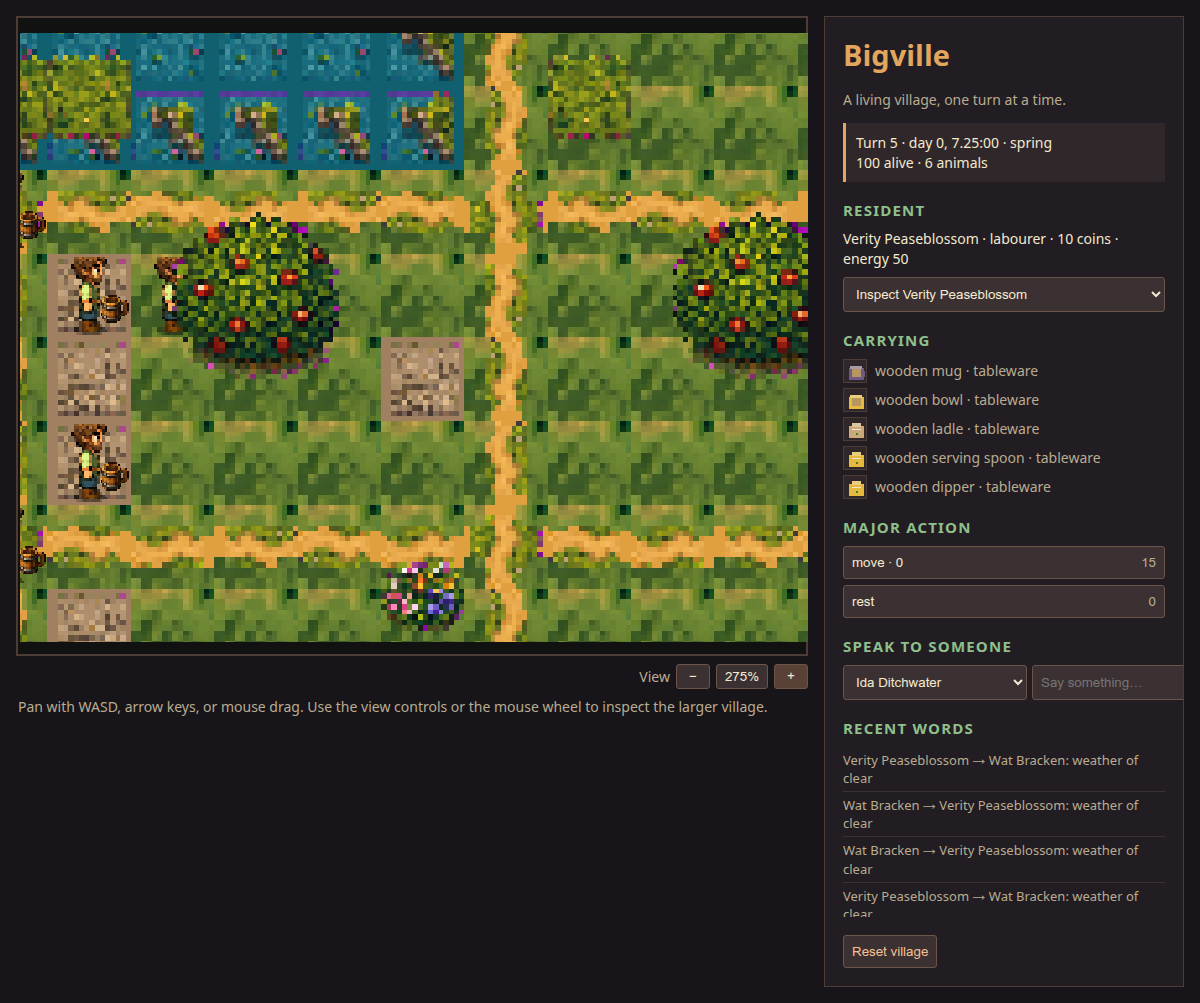
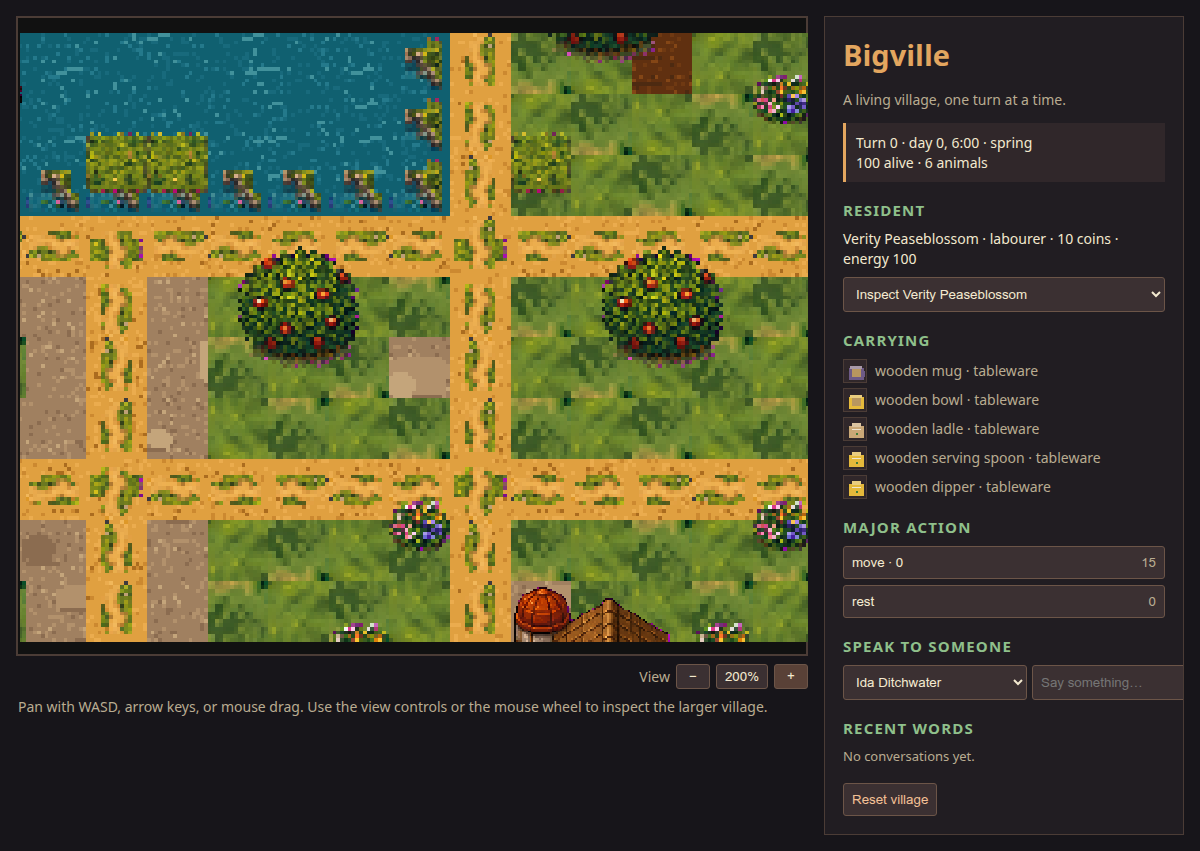
Render terrain as continuous material fields

diff --git a/bigville/game/game.js b/bigville/game/game.js
@@ -203,6 +203,14 @@ class BigvilleScene extends Phaser.Scene {
     // These are style-matched frames extracted from the original village art;
     // the map still chooses and assembles them from its own grid.
     this.load.spritesheet('tileset', 'assets/style_tiles.png', {frameWidth: TILE, frameHeight: TILE});
+    // Material fields are larger repeating textures masked to the canonical
+    // grid.  They remove the one-texture-square-per-cell look without making
+    // the art responsible for map topology or collision.
+    this.load.image('material_ground', 'assets/style_ground.png');
+    this.load.image('material_path', 'assets/style_path_ground.png');
+    this.load.image('material_water', 'assets/style_water_ground.png');
+    this.load.image('material_soil', 'assets/style_soil_ground.png');
+    this.load.image('material_stone', 'assets/style_stone_ground.png');
     this.load.spritesheet('props', 'assets/style_props.png', {frameWidth: TILE, frameHeight: TILE});
     this.load.spritesheet('large_props', 'assets/style_large_props.png', {frameWidth: 32, frameHeight: 32});
     this.load.spritesheet('buildings', 'assets/buildings.png', {frameWidth: 48, frameHeight: 48});
@@ -386,14 +394,63 @@ class BigvilleScene extends Phaser.Scene {
 
   drawCanonicalMap(map) {
     const grid = map.grid || [];
+    this.drawMaterialFields(map);
     for (let y = 0; y < grid.length; y++) {
       for (let x = 0; x < (grid[y] || []).length; x++) {
         const tile = grid[y][x];
+        // These materials are continuous fields.  Only topology-dependent
+        // edges and non-material overlays remain individual grid sprites.
+        if (tile === 0 || tile === 2 || tile === 3 || tile === 4 || tile === 5 || tile === 7) continue;
+        if (tile === 6 && this.neighbourMask(grid, x, y, 6) === 15) continue;
         const frame = this.terrainFrame(tile, x, y, grid);
         const sprite = this.add.sprite(this.cellX(x), this.cellY(y), 'tileset', frame)
           .setScale(DISPLAY_SCALE).setDepth(this.depthAt(x, y, 0));
         this.objects.push(sprite);
       }
+    }
+  }
+
+  neighbourMask(grid, x, y, value) {
+    const same = (nx, ny) => grid[ny]?.[nx] === value;
+    return (same(x, y - 1) ? 1 : 0) | (same(x + 1, y) ? 2 : 0) |
+      (same(x, y + 1) ? 4 : 0) | (same(x - 1, y) ? 8 : 0);
+  }
+
+  drawMaterialFields(map) {
+    const grid = map.grid || [];
+    const width = (map.width || grid[0]?.length || 0) * TILE * DISPLAY_SCALE;
+    const height = (map.height || grid.length || 0) * TILE * DISPLAY_SCALE;
+    const fields = [
+      ['ground', (tile) => tile === 0 || tile === 7],
+      ['path', (tile) => tile === 1],
+      ['water', (tile) => tile === 6],
+      ['soil', (tile) => tile === 5],
+      ['stone', (tile) => tile === 2 || tile === 3 || tile === 4],
+    ];
+    const materialScale = Number(this.styleManifest?.materials?.texture_scale || DISPLAY_SCALE);
+    for (const [name, predicate] of fields) {
+      const texture = `material_${name}`;
+      if (!this.textures.exists(texture)) continue;
+      const maskShape = this.make.graphics({x: 0, y: 0, add: true});
+      maskShape.fillStyle(0xffffff, 1);
+      let hasCells = false;
+      for (let y = 0; y < grid.length; y++) {
+        for (let x = 0; x < (grid[y] || []).length; x++) {
+          if (!predicate(grid[y][x])) continue;
+          hasCells = true;
+          maskShape.fillRect(x * TILE * DISPLAY_SCALE, y * TILE * DISPLAY_SCALE,
+            TILE * DISPLAY_SCALE, TILE * DISPLAY_SCALE);
+        }
+      }
+      if (!hasCells) {
+        maskShape.destroy();
+        continue;
+      }
+      const field = this.add.tileSprite(width / 2, height / 2, width, height, texture)
+        .setOrigin(0.5).setTileScale(materialScale).setDepth(-50);
+      field.setMask(maskShape.createGeometryMask());
+      maskShape.setVisible(false);
+      this.objects.push(field, maskShape);
     }
   }
 

diff --git a/tools/build_style_assets.py b/tools/build_style_assets.py
@@ -96,10 +96,107 @@ def opaque_tile(image: Image.Image) -> Image.Image:
     return out.convert("RGB")
 
 
+def material_texture(frames: list[Image.Image], choices: list[int], blocks: int = 8,
+                     seed: int = 17) -> Image.Image:
+    """Make a larger, varied material field from small pixel-art samples.
+
+    The simulation still addresses terrain one logical cell at a time, but a
+    material is rendered as a field rather than as one visibly repeated square
+    per cell.  Mirrored samples keep the pixel language intact while breaking
+    the obvious checkerboard rhythm at normal zoom.
+    """
+    size = TILE * blocks
+    out = Image.new("RGB", (size, size))
+    for row in range(blocks):
+        for col in range(blocks):
+            index = (col * 13 + row * 29 + seed) % len(choices)
+            frame = frames[choices[index]].convert("RGB")
+            transform = (col * 3 + row * 5 + seed) % 4
+            if transform == 1:
+                frame = ImageOps.mirror(frame)
+            elif transform == 2:
+                frame = ImageOps.flip(frame)
+            elif transform == 3:
+                frame = frame.transpose(Image.Transpose.ROTATE_180)
+            out.paste(frame, (col * TILE, row * TILE))
+    return out
+
+
+def material_field(kind: str, size: int = 128) -> Image.Image:
+    """Paint a larger pixel-art material without logical-cell borders.
+
+    Some source tiles intentionally contain a little scene dressing (lilypads,
+    paving seams, or crop rows).  Repeating those tiles as a field would just
+    move the square problem to a larger scale, so the broad materials get a
+    sparse, deterministic pixel treatment in the same palette instead.
+    """
+    palettes = {
+        "path": [(224, 160, 64), (235, 172, 78), (204, 137, 48), (171, 108, 31)],
+        "water": [(16, 96, 112), (24, 106, 124), (36, 121, 139), (65, 145, 155)],
+        "soil": [(96, 48, 16), (111, 57, 18), (132, 70, 22), (77, 42, 17)],
+        "stone": [(160, 128, 96), (178, 145, 108), (139, 108, 80), (196, 165, 123)],
+    }
+    colors = palettes[kind]
+    out = Image.new("RGB", (size, size), colors[0])
+    draw = ImageDraw.Draw(out)
+
+    def number(x: int, y: int, salt: int = 0) -> int:
+        value = (x * 374761393 + y * 668265263 + salt * 1442695041) & 0xffffffff
+        value = ((value ^ (value >> 13)) * 1274126177) & 0xffffffff
+        return (value ^ (value >> 16)) & 0x7fffffff
+
+    for y in range(size):
+        for x in range(size):
+            value = number(x, y, len(kind)) % 100
+            if value < 12:
+                out.putpixel((x, y), colors[1])
+            elif value < 18:
+                out.putpixel((x, y), colors[2])
+            elif value < 21:
+                out.putpixel((x, y), colors[3])
+
+    if kind == "water":
+        for y in range(4, size, 9):
+            for x in range((y * 3) % 13 - 8, size, 25):
+                if number(x, y, 5) % 3:
+                    draw.line((x, y, x + 5, y - 1), fill=colors[3], width=1)
+                    draw.point((x + 6, y), fill=colors[1])
+    elif kind == "soil":
+        for y in range(5, size, 7):
+            for x in range((y * 5) % 11 - 5, size, 23):
+                draw.line((x, y, x + 8, y), fill=colors[3], width=1)
+    elif kind == "path":
+        for i in range(36):
+            x = number(i, 7, 3) % size
+            y = number(i, 19, 7) % size
+            draw.point((x, y), fill=colors[3])
+            if number(i, 29, 11) % 2:
+                draw.point((min(size - 1, x + 1), y), fill=colors[2])
+    elif kind == "stone":
+        # Irregular paving stones are deliberately larger and offset from the
+        # simulation grid, so a paved square is still readable as a surface,
+        # not as a set of map cells.
+        for i in range(32):
+            x = number(i, 2, 13) % size
+            y = number(i, 31, 17) % size
+            w = 7 + number(i, 41, 19) % 11
+            h = 5 + number(i, 53, 23) % 8
+            shade = colors[1 + number(i, 67, 29) % 3]
+            points = [(x, y + 1), (x + 2, y), (x + w - 2, y),
+                      (x + w, y + 2), (x + w - 1, y + h),
+                      (x + 2, y + h - 1), (x, y + h - 2)]
+            draw.polygon(points, fill=shade)
+            draw.line((x + 1, y + h, x + w - 2, y + h), fill=colors[2], width=1)
+    return out
+
+
 def path_transition(grass: Image.Image, path: Image.Image, mask: int,
                     variant: int = 0) -> Image.Image:
     """Blend an organic path edge into grass using N/E/S/W connectivity."""
-    out = grass.copy()
+    # Paths are overlays now.  The larger grass/path material fields underneath
+    # provide the continuous ground, so each transition must not stamp a
+    # second square of grass over its neighbours.
+    out = Image.new("RGBA", (TILE, TILE), (0, 0, 0, 0))
     shape = Image.new("L", (TILE, TILE), 0)
     draw = ImageDraw.Draw(shape)
     draw.rectangle((4, 4, 11, 11), fill=255)
@@ -112,7 +209,7 @@ def path_transition(grass: Image.Image, path: Image.Image, mask: int,
         draw.polygon(((4, 8), (11, 8), (10 + offset, 15), (5 + offset, 15)), fill=255)
     if mask & 8:
         draw.polygon(((0, 5 + offset), (8, 4), (8, 11), (0, 10 + offset)), fill=255)
-    out.paste(path, (0, 0), shape)
+    out.paste(path.convert("RGBA"), (0, 0), shape)
     return out
 
 
@@ -136,7 +233,7 @@ def orient_path(path: Image.Image, mask: int, variant: int) -> Image.Image:
 def water_transition(water: Image.Image, shoreline: Image.Image, mask: int) -> Image.Image:
     """Keep open water open and add shoreline only at exposed edges."""
     if mask == 15:
-        return water.copy()
+        return Image.new("RGBA", (TILE, TILE), (0, 0, 0, 0))
     if mask == 0:
         return shoreline.copy()
     shape = Image.new("L", (TILE, TILE), 0)
@@ -151,8 +248,8 @@ def water_transition(water: Image.Image, shoreline: Image.Image, mask: int) -> I
         draw.rectangle((0, 10, 15, 15), fill=255)
     if not mask & 8:
         draw.rectangle((0, 0, 5, 15), fill=255)
-    out = water.copy()
-    out.paste(shoreline, (0, 0), shape)
+    out = Image.new("RGBA", (TILE, TILE), (0, 0, 0, 0))
+    out.paste(shoreline.convert("RGBA"), (0, 0), shape)
     return out
 
 
@@ -174,6 +271,15 @@ def build_tiles(manifest: dict, terrain: Image.Image, reference: Image.Image,
         (TILE, TILE), Image.Resampling.NEAREST).convert("RGB")
     base[1] = reference.crop((340, 20, 372, 52)).resize(
         (TILE, TILE), Image.Resampling.NEAREST).convert("RGB")
+    material_files = {
+        "ground": material_texture(base, [0, 1], seed=11),
+        "path_ground": material_field("path"),
+        "water_ground": material_field("water"),
+        "soil_ground": material_field("soil"),
+        "stone_ground": material_field("stone"),
+    }
+    for name, texture in material_files.items():
+        texture.save(ASSETS / f"style_{name}.png")
     semantic = {
         "grass": base[0], "grass_alt": base[1], "path": base[2],
         "dirt": base[2], "square": base[4], "floor": base[4],
@@ -355,6 +461,17 @@ def main() -> None:
         "held_item_source": "style_held_items_atlas_source.png",
         "tiles": {"file": "style_tiles.png", "frame": TILE,
                   "tiles": manifest["tileset"]["tiles"]},
+        "materials": {
+            "logical_tile": TILE,
+            "texture_scale": 2,
+            "fields": {
+                "ground": "style_ground.png",
+                "path": "style_path_ground.png",
+                "water": "style_water_ground.png",
+                "soil": "style_soil_ground.png",
+                "stone": "style_stone_ground.png",
+            },
+        },
         "path_variants": path_variants,
         "props": {"file": "style_props.png", "frame": TILE, "sprites": prop_sprites},
         "large_props": {"file": "style_large_props.png", "frame": 32,
@@ -370,7 +487,9 @@ def main() -> None:
                        "sprites": held_item_sprites},
     }
     (ASSETS / "style_manifest.json").write_text(json.dumps(out_manifest, indent=2) + "\n")
-    print("wrote style_tiles.png style_props.png style_large_props.png style_buildings.png style_manifest.json")
+    print("wrote style_tiles.png style_ground.png style_path_ground.png style_water_ground.png "
+          "style_soil_ground.png style_stone_ground.png style_props.png style_large_props.png "
+          "style_buildings.png style_manifest.json")
 
 
 if __name__ == "__main__":

diff --git a/tests/test_bigville_server.py b/tests/test_bigville_server.py
@@ -28,6 +28,9 @@ def test_game_assets_are_present():
                          "assets/style_terrain_atlas_source.png",
                          "assets/style_building_atlas_source.png",
                          "assets/style_tiles.png", "assets/style_props.png",
+                         "assets/style_ground.png", "assets/style_path_ground.png",
+                         "assets/style_water_ground.png", "assets/style_soil_ground.png",
+                         "assets/style_stone_ground.png",
                          "assets/style_large_props.png", "assets/style_buildings.png",
                          "assets/style_cutaway_atlas_source.png", "assets/style_cutaways.png",
                          "assets/style_character_walk_atlas_source.png", "assets/style_characters.png",
@@ -55,6 +58,10 @@ def test_asset_manifest_covers_entity_items_and_modular_buildings():
     assert manifest["style_assets"]["held_item_source"] == "style_held_items_atlas_source.png"
     style = json.loads((GAME_ROOT / "assets/style_manifest.json").read_text())
     assert style["tiles"]["file"] == "style_tiles.png"
+    assert style["materials"]["texture_scale"] == 2
+    assert set(style["materials"]["fields"]) == {"ground", "path", "water", "soil", "stone"}
+    assert all((GAME_ROOT / "assets" / filename).is_file()
+               for filename in style["materials"]["fields"].values())
     assert len(style["path_variants"]) == 16
     assert all(len(frames) == 3 for frames in style["path_variants"].values())
     from PIL import Image

diff --git a/bigville/game/assets/generate_assets.py b/bigville/game/assets/generate_assets.py
@@ -1027,7 +1027,7 @@ def main():
             "held_item_source": "style_held_items_atlas_source.png",
             "manifest": "style_manifest.json",
             "builder": "tools/build_style_assets.py",
-            "runtime_note": "the original village scene is reference-only; clients assemble transparent props, facades, and opaque terrain frames",
+            "runtime_note": "the original village scene is reference-only; clients assemble masked material fields, transparent transitions, props, and facades",
         },
         "rendering": {
             "projection": "square_cells_3q_top_down",

diff --git a/docs/GAME_ART_DESIGN.md b/docs/GAME_ART_DESIGN.md
@@ -79,10 +79,13 @@ background image.
 the primary reference for palette, silhouette density, tall facades, irregular
 paths, water edges, and prop placement. It is never used as a runtime
 backdrop. The terrain and building source sheets are converted by
-`tools/build_style_assets.py` into assembled runtime atlases:
-`style_tiles.png`, `style_props.png`, `style_large_props.png`, and
-`style_buildings.png`, plus the matching roof-off `style_cutaways.png`,
-described by `style_manifest.json`. Cutaways retain the facade, foundation,
+`tools/build_style_assets.py` into assembled runtime material fields and
+atlases. The larger `style_*_ground.png` fields are masked to the map's
+authoritative cells, while `style_tiles.png` supplies topology-dependent
+transitions and overlays. Grass, paths, water, soil, and stone therefore keep
+their material continuity without making the map grid disappear. Props,
+`style_large_props.png`, and `style_buildings.png`, plus the matching roof-off
+`style_cutaways.png`, are described by `style_manifest.json`. Cutaways retain the facade, foundation,
 door, and exterior trim while exposing the furnished room. This keeps the
 original visual language while allowing every scenario to provide a different
 map and building arrangement. `stardew_like_art_direction.png`,

diff --git a/README.md b/README.md
@@ -74,8 +74,10 @@ The current art direction board is included at
 the original village rendering is preserved as a reference at
 [`bigville/game/assets/style_source_village.png`](bigville/game/assets/style_source_village.png),
 but it is not drawn as a backdrop. `tools/build_style_assets.py` turns the
-reference language into assembled terrain, transitions, props, and building
-facades. It also includes matching roof-off cutaway facades with furnished
+reference language into assembled material fields, terrain transitions, props,
+and building facades. Material fields are masked to the canonical map cells, so
+grass, paths, water, soil, and stone read as continuous ground instead of a
+checkerboard of independently stamped squares. It also includes matching roof-off cutaway facades with furnished
 interiors, so scenarios can use different maps with the same cosy visual style
 without falling back to a separate interior art language. Residents use a
 32px directional walk-cycle atlas with idle, step-A, and step-B frames, so
